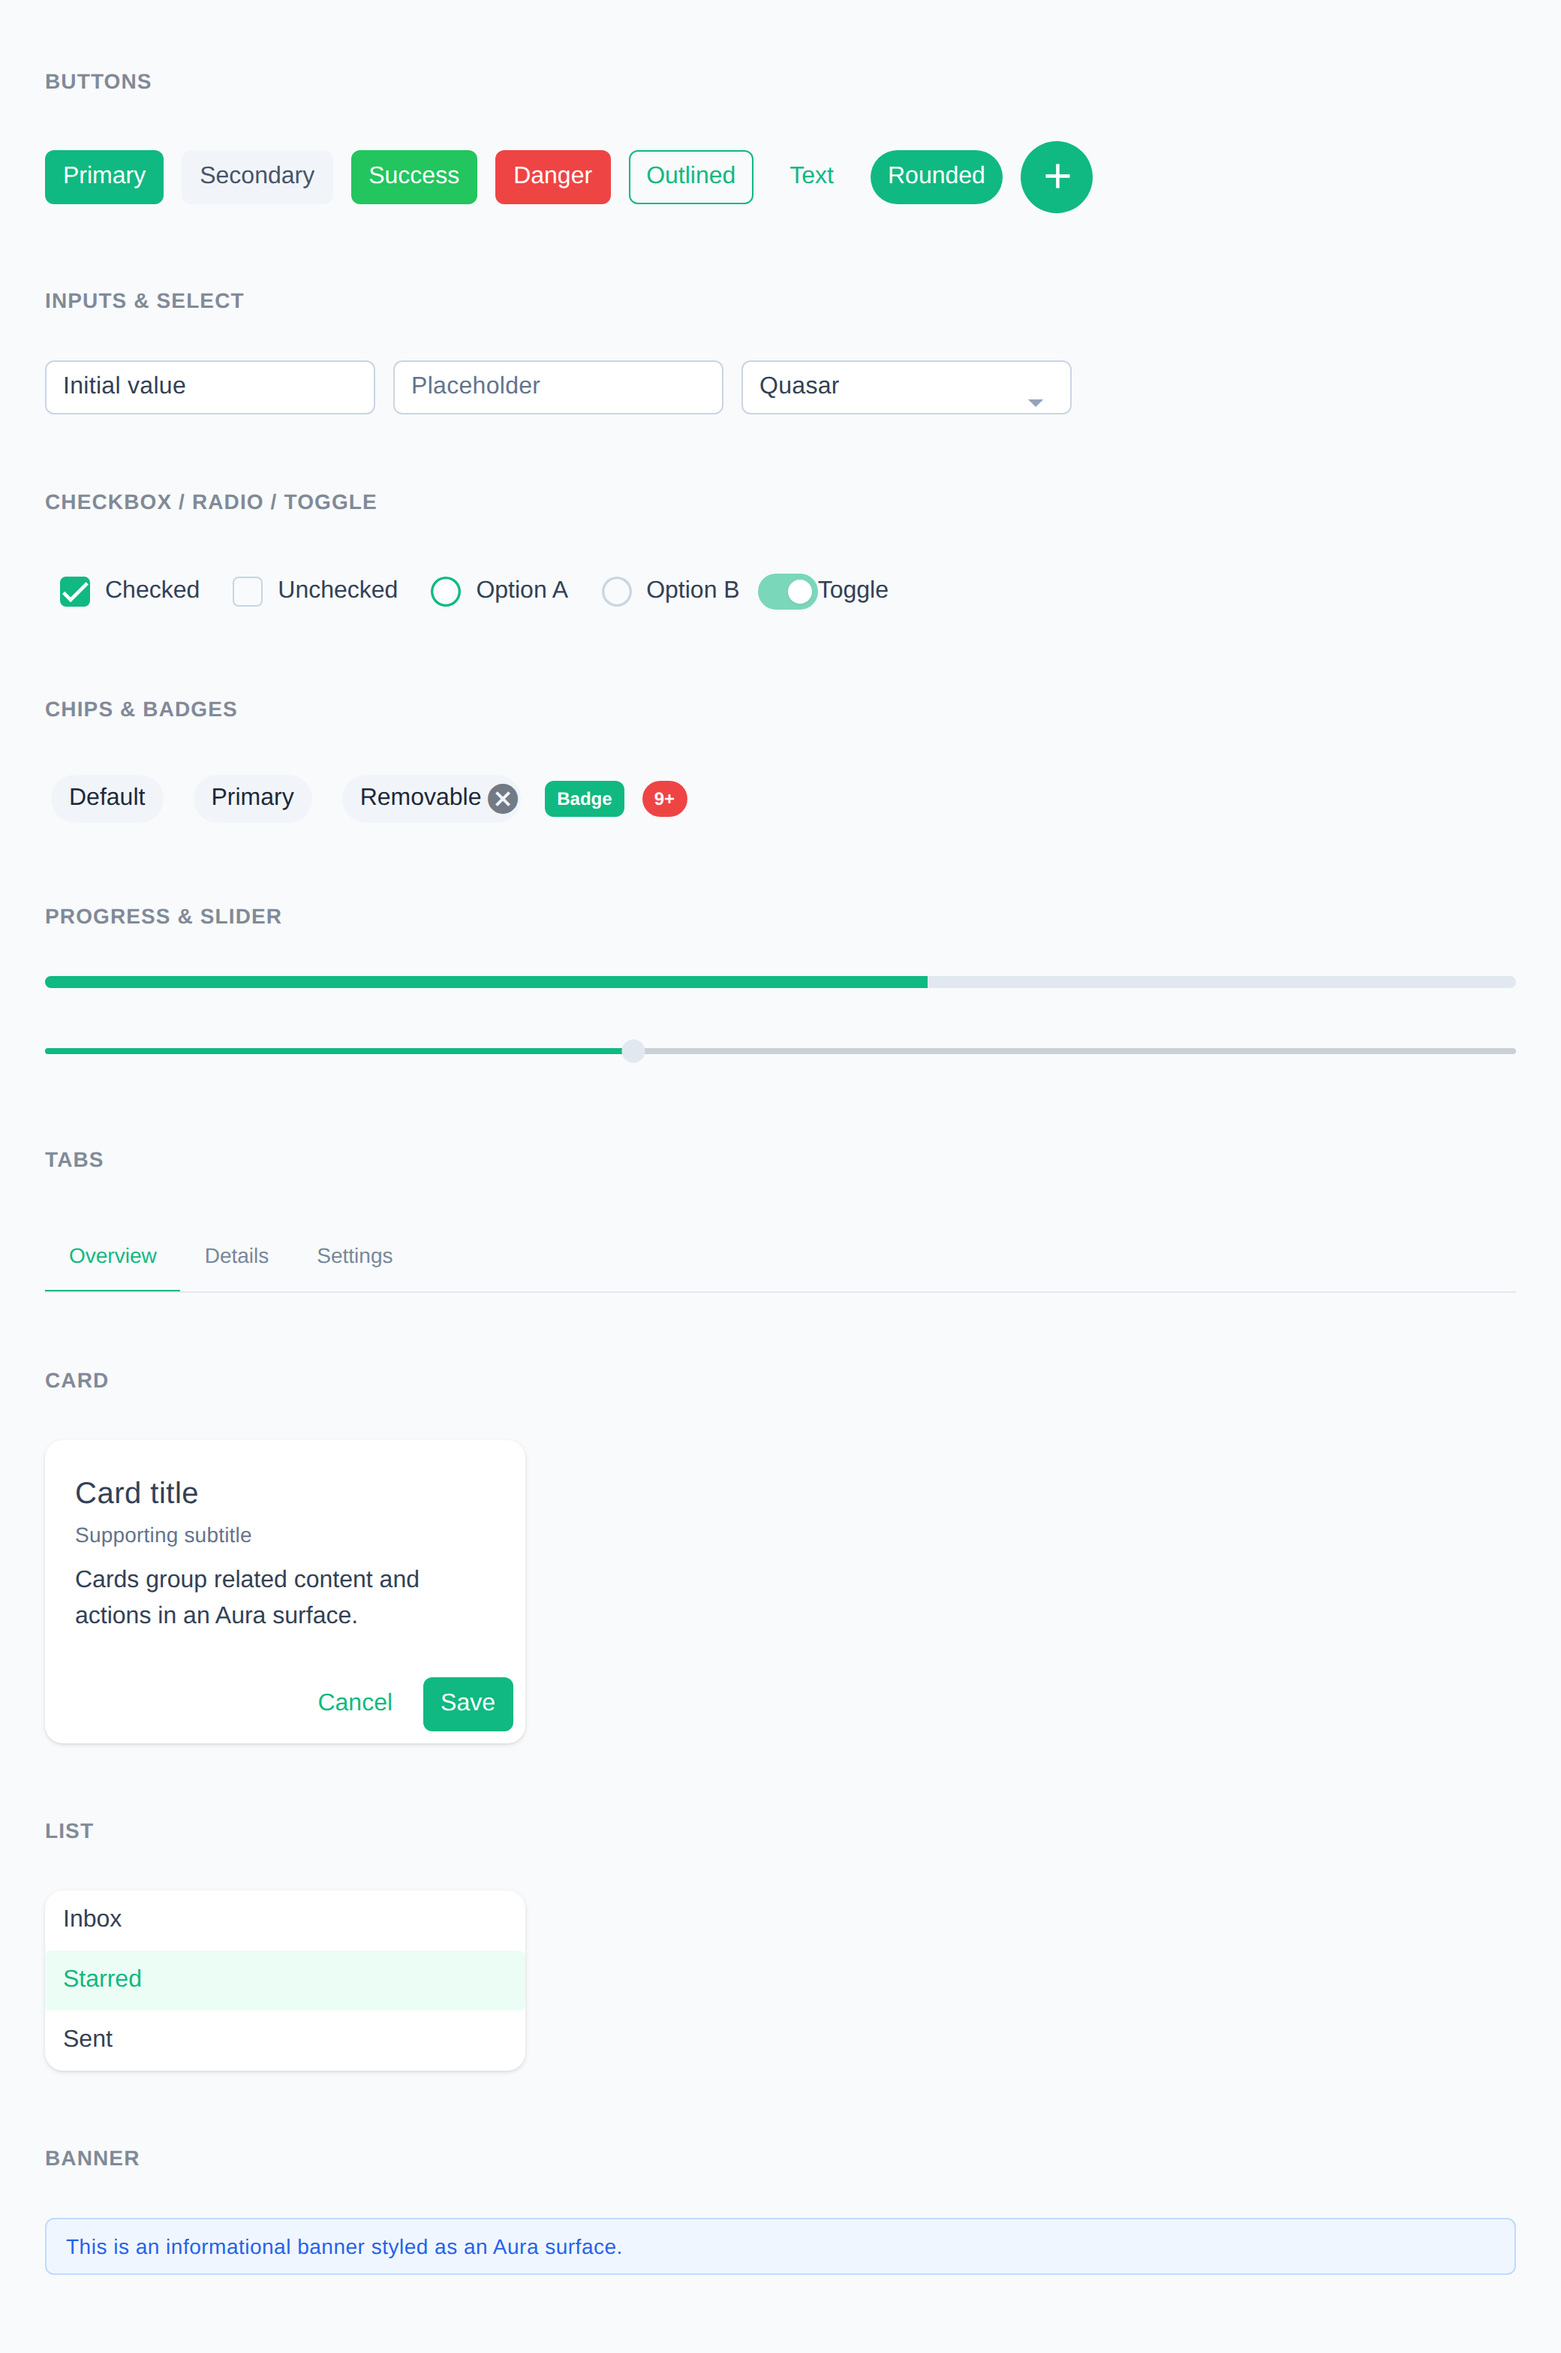
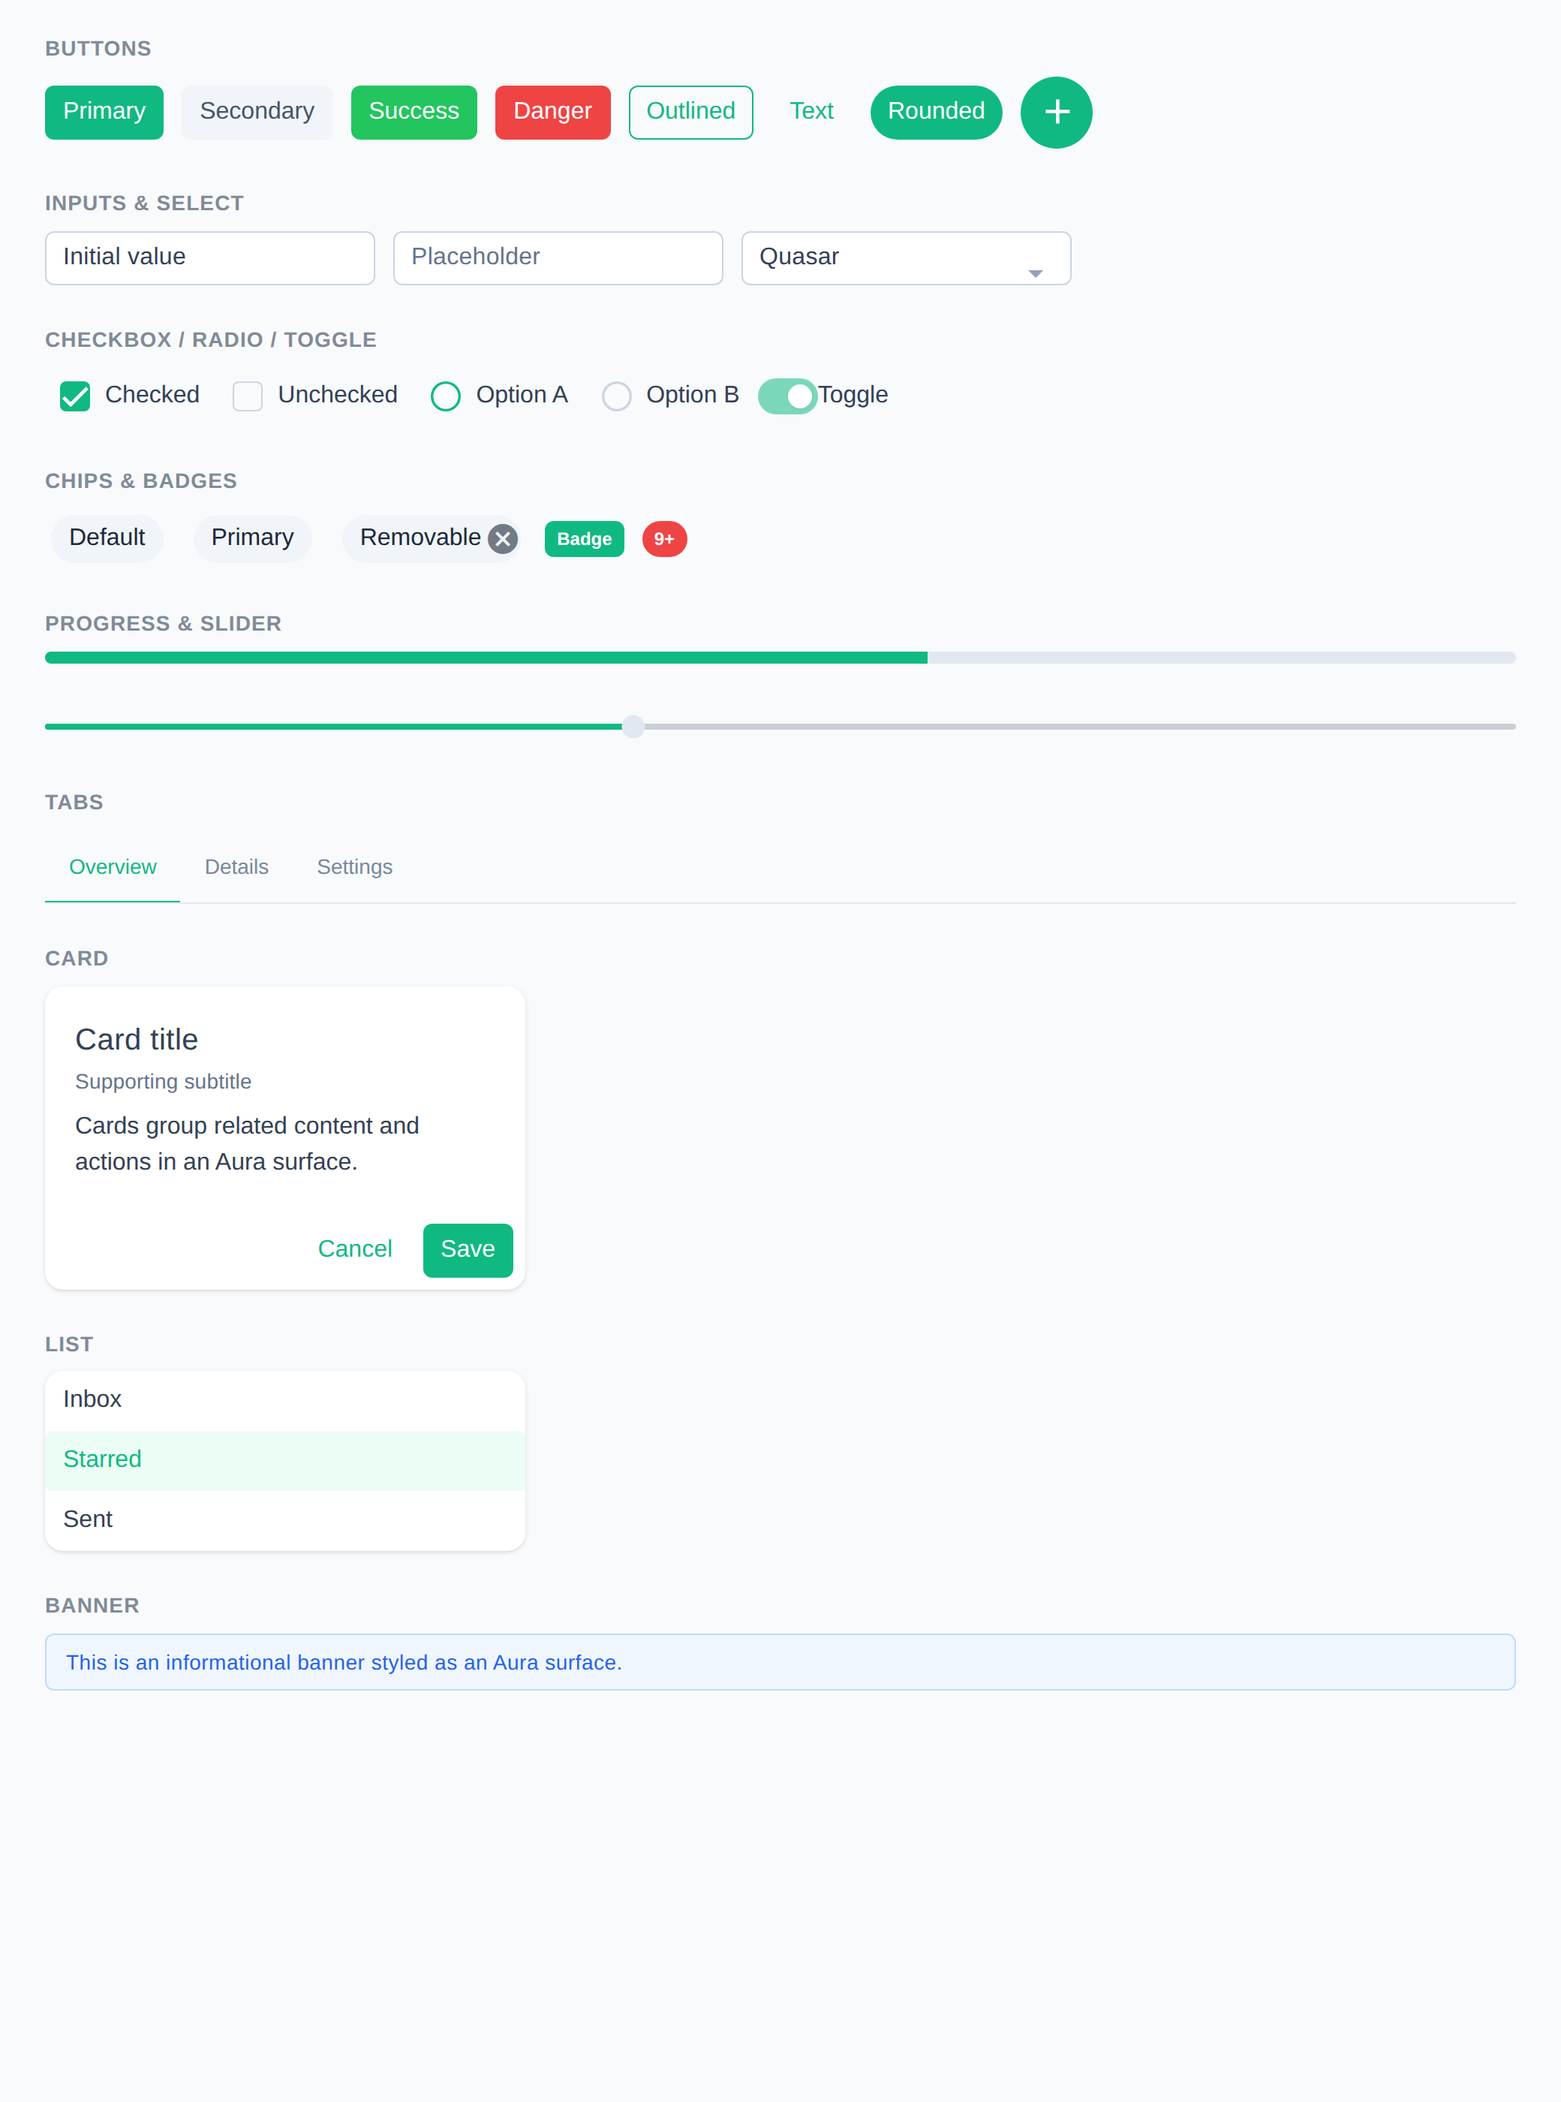
Tighten Quasar heading line-height for Aura density parity

diff --git a/src/css/_base.scss b/src/css/_base.scss
@@ -41,6 +41,19 @@ body.body--dark {
   background-color: var(--p-surface-950);
 }
 
+// Quasar's Material heading reset gives headings huge line-heights (e.g. h2 is
+// `line-height: 3.75rem` = 60px), which adds a lot of dead vertical space above
+// and below titles. Aura's typography hugs the text, so tighten heading
+// line-height to keep layouts as dense as the PrimeVue reference.
+h1,
+h2,
+h3,
+h4,
+h5,
+h6 {
+  line-height: 1.2;
+}
+
 // Muted / secondary text helpers used across components.
 .text-grey,
 .text-grey-7,
